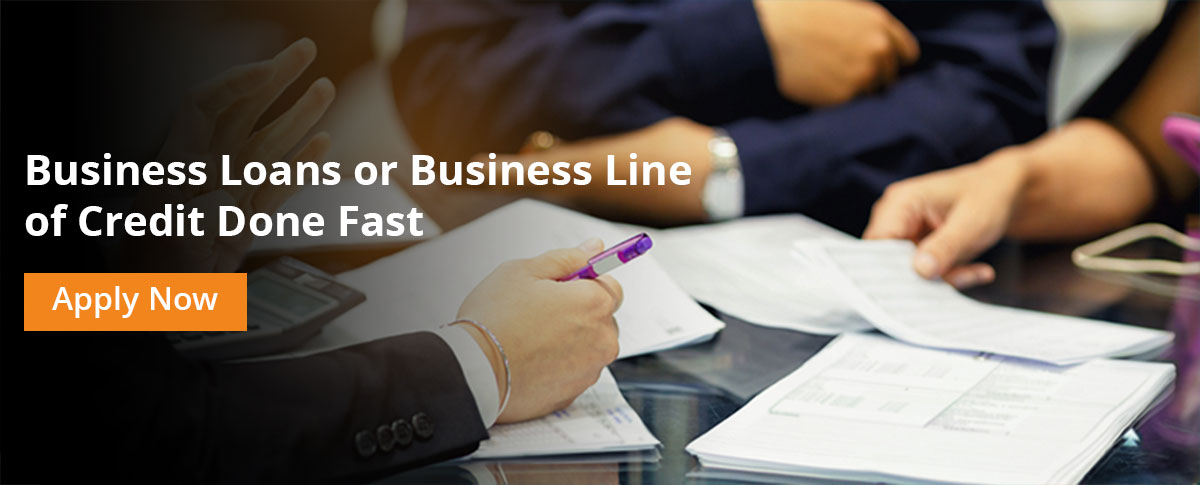
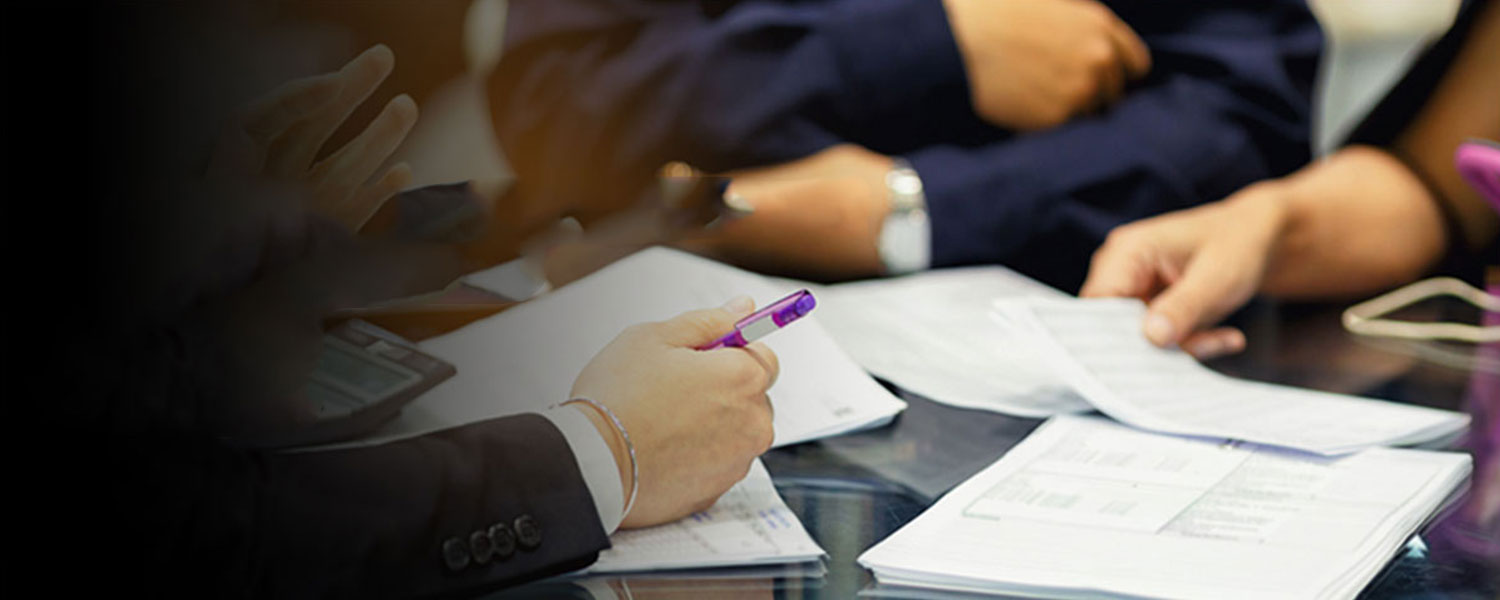
Modify changes in business funding

diff --git a/src/assets/scss/common.scss b/src/assets/scss/common.scss
@@ -8,9 +8,46 @@
             margin: 20px 0px;
             .banner-sec{
                 a{
-                    display:inline-block;
+                    display:block;
+                    position: relative;
                     img{
                         width:100%;
+                    }
+                    .banner-content{
+                        position: absolute;
+                        top: 50%;
+                        left: 0px;
+                        transform: translate(40px, -50%);
+                        h2{
+                            font-size: 38px;
+                            color: #fff;
+                            font-family: "open_sansregular";
+                            font-weight: 600;
+                            max-width: 430px;
+                            line-height: 46px;
+                            margin: 0px 0px 20px 0px;
+                        }
+                        .banner-btn{
+                            background: #f2861a;
+                            border: 0px;
+                            color: #fff;
+                            padding: 7px 20px;
+                            font-size: 22px;
+                            font-family: "open_sansregular";
+                            cursor: pointer;
+                            outline: none;
+                            &:hover{
+                                background: #cf6d0b;
+                            }
+                        }
+                    }
+                    &.ecommerce-header{
+                        .banner-content{
+                            h2{
+                                max-width: 700px;
+                                font-size: 32px;
+                            }
+                        }
                     }
                 }
             }
@@ -49,24 +86,72 @@
                         }
                     }
                 }
-                .buy-btn{
-                    padding: 13px 35px;
-                    background: #ff4020;
-                    color: #fff;
-                    display: inline-block;
-                    font-family: "josefin_sansregular";
-                    font-size: 22px;
-                    border-radius: 30px;
-                    line-height: 22px;
-                    border: 0px;
-                    margin-top:20px;
-                }
             }
         }
     }
 }
 
-
+@media screen and (max-width:768px){
+    .border-box-sec{
+        .container{
+            .border-box{
+                .banner-sec{
+                    a{
+                        .banner-content{
+                            position: unset;
+                            top: 100%;
+                            left: 0px;
+                            transform: unset;
+                            h2{
+                                font-size: 20px !important;
+                                color: #000;
+                                margin-bottom: 10px;
+                                line-height: normal;
+                            }
+                            .banner-btn{
+                                padding: 6px 15px;
+                                font-size: 16px;
+                            }
+                        }
+                    }
+                }
+                .border-box-content{
+                    h2{
+                        font-size: 18px;
+                    }
+                }
+            }
+        }
+    }
+}
+@media screen and (min-width:769px) and (max-width:992px){
+    .border-box-sec{
+        .container{
+            .border-box{
+                .banner-sec{
+                    a{
+                        .banner-content{
+                            h2{
+                                font-size: 24px !important;
+                                max-width: 560px !important;
+                                line-height: normal;
+                            }
+                            .banner-btn{
+                                padding: 6px 15px;
+                                font-size: 16px;
+                            }
+                        }
+                    }
+                }
+                .border-box-content{
+                    h2{
+                        font-size: 18px;
+                    }
+                }
+            }
+        }
+    }
+}
 ///Credit Card
 
 .credit-card {

diff --git a/src/app/backoffice/bitcoin-store/bitcoin-store.component.html b/src/app/backoffice/bitcoin-store/bitcoin-store.component.html
@@ -4,27 +4,16 @@
     <div class="container">
         <div class="border-box">
             <div class="banner-sec">
-                <a href="https://paxful.com/?r=xLY6X4jX3Qy" target="_blank">
+                <a href="{{'bitcoinLink' | translate}}" target="_blank">
                     <img src="assets/images/backoffice/bitcoin-store.jpg" />
+                    <div class="banner-content">
+                        <h2>{{'bitcoinBannerTitle' | translate}}</h2>
+                        <button type="button" class="banner-btn">{{'merchantBannerBtn' | translate}}</button>
+                    </div>
                 </a>
             </div>
-            <div class="row">
-                <div class="col-md-12">
-                    <ul nz-list  nzBordered nzSize="large" class="invite-box">
-                        <nz-list-header>Invite others by sharing your QR code</nz-list-header>
-                        <li nz-list-item nzNoFlex>
-                            <div class="qr-code-sec">
-                                <div class="qr-code-img">
-                                    <img  src="https://paxful.com/qr/r/xLY6X4jX3Qy" />
-                                </div>
-                                <div class="qr-code-txt">
-                                    The person you invite will need to scan this QR code in order to access your invitation link
-    
-                                </div>
-                            </div>
-                        </li>
-                      </ul>
-                </div>
+            <div class="border-box-content">
+                <p>{{'bitcoinp1' | translate}}</p>
             </div>
         </div>
     </div>

diff --git a/src/app/backoffice/business-funding/business-funding.component.html b/src/app/backoffice/business-funding/business-funding.component.html
@@ -2,14 +2,18 @@
     <div class="container">
         <div class="border-box">
             <div class="banner-sec">
-                <a href="https://www.national.biz/secured-business-loans//?ref=91523" target="_blank">
+                <a>
                     <img src="assets/images/backoffice/businees-funding.jpg" alt="Best Small Business Loans"/>
+                    <div class="banner-content">
+                        <h2>{{'businessBannerTitle' | translate}}</h2>
+                        <button type="button" class="banner-btn">{{'businessBannerBtn' | translate}}</button>
+                    </div>
                 </a>
             </div>
             
             <div class="border-box-content">
-                <h2>Best Small Business Loans And Business Line Of Credit For Company</h2>
-                <p>When it comes to business, we think Mytrendingstories is where it all starts. You see, we’re local and nationwide across usa, so when accessibility is important, we’re right here to support you. From competitive business loans and business line of credit programs to flexible terms, we’ll work hard to tailor a solution that makes sense. Working with Mytrendingstories National Funding team member gives you experience and an in-depth knowledge of the market place loans from $10 000 to 10 millions.</p>
+                <h2>{{'businessh2' | translate}}</h2>
+                <p>{{'businessp1' | translate}}</p>
             </div>
         </div>
     </div>

diff --git a/src/app/backoffice/e-commerce-funding/e-commerce-funding.component.html b/src/app/backoffice/e-commerce-funding/e-commerce-funding.component.html
@@ -2,13 +2,19 @@
     <div class="container">
         <div class="border-box">
             <div class="banner-sec">
-                <img src="assets/images/backoffice/e-commerce-funding.jpg" alt="">
+                <a class="ecommerce-header">
+                    <img src="assets/images/backoffice/e-commerce-funding.jpg" alt="">
+                    <div class="banner-content">
+                        <h2>{{'eCommerceBannerTitle' | translate}}</h2>
+                        <button type="button" class="banner-btn">{{'eCommerceBannerBtn' | translate}}</button>
+                    </div>
+                </a>
             </div>
             <div class="border-box-content">
-                <h2>Best Small Business Loans</h2>
-                <p>Your opportunity is waiting, but not for long. Let National help you seize it before it's too late!</p>
-                <p>Choose from a variety of financing options (based on your needs) to take your business to the next level.</p>
-                <p>Fund smarter with flexible financing. Fixed payments with terms (from 6 months to 10 years) that work for your business. Use for any need.</p>
+                <h2>{{'eCommerceh2' | translate}}</h2>
+                <p>{{'eCommercep1' | translate}}</p>
+                <p>{{'eCommercep2' | translate}}</p>
+                <p>{{'eCommercep3' | translate}}</p>
             </div>
         </div>
     </div>

diff --git a/src/app/backoffice/merchant-processing/merchant-processing.component.html b/src/app/backoffice/merchant-processing/merchant-processing.component.html
@@ -2,13 +2,17 @@
     <div class="container">
         <div class="border-box">
             <div class="banner-sec">
-                <a href="https://www.national.biz/apply-now/?ref=91523" target="_blank" title="'Simple, Fast, Efficient Funding - Get Funding Now">
+                <a href="{{'merchantLink' | translate}}" target="_blank" title="'Simple, Fast, Efficient Funding - Get Funding Now">
                     <img src="assets/images/backoffice/merchant-processingt.jpg" alt="Simple, Fast, Efficient Funding - Get Funding Now"/>
+                    <div class="banner-content">
+                        <h2>{{'merchantBannerTitle' | translate}}</h2>
+                        <button type="button" class="banner-btn">{{'merchantBannerBtn' | translate}}</button>
+                    </div>
                 </a>
             </div>
             
             <div class="border-box-content">
-                <p>Create Bitcoin Account to Receive My Trending Stories payment for ads network or Buy and Sell Bitcoin.We partner with Paxfull to Give Access to Everyone in the World to Join our Network and Make Money.My Trending Stories the People Voice and People Choice</p>
+                <p>{{'merchantp1' | translate}}</p>
             </div>
         </div>
     </div>

diff --git a/src/app/backoffice/newsletter/newsletter.component.html b/src/app/backoffice/newsletter/newsletter.component.html
@@ -2,11 +2,14 @@
     <div class="container">
         <div class="border-box">
             <div class="banner-sec">
-                <a href="{{'newsletterLink' | translate}}" target="_BLANK" rel="nofollow">
-                    <img src="{{'newsletterImage'  | translate}}" border="0">
+                <a href="{{'newsletterLink' | translate}}" target="_blank">
+                    <img src="assets/images/backoffice/newsletter-banner.jpg" alt="Newsletter Banner" >
+                    <div class="banner-content">
+                        <h2>{{'newsletterBannerTitle' | translate}}</h2>
+                        <button type="button" class="banner-btn">{{'newsletterBannerBtn' | translate}}</button>
+                    </div>
                 </a>
             </div>
-            
             <div class="border-box-content">
                 <h2>{{'newsletterh2' | translate}}</h2>
                 <p>{{'newsletterp1' | translate}}</p>
